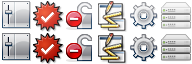
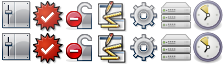
#101: Implement simple scheduler

diff --git a/chrome/content/dta/manager/manager.js b/chrome/content/dta/manager/manager.js
@@ -230,6 +230,8 @@ const Dialog = {
 			$('tooldonate').addEventListener('click', function(evt) { if (evt.button == 0) Dialog.openDonate() }, false);
 		})();
 
+		this.paneSchedule = $("schedule");
+
 		let tree = $("downloads");
 		Tree.init(tree);
 		tree.addEventListener("change", function() {
@@ -948,6 +950,31 @@ const Dialog = {
 			// pre-condition, do check prior to loop, or else we'll have the generator cost.
 			if (this._running.length >= Prefs.maxInProgress) {
 				return false;
+			}
+			if (Prefs.schedEnabled) {
+				this.paneSchedule.removeAttribute("disabled");
+
+				let current = new Date();
+				current = current.getHours() * 60 + current.getMinutes();
+				let disabled;
+				if (Prefs.schedStart < Prefs.schedEnd) {
+					disabled = current < Prefs.schedStart || current > Prefs.schedEnd;
+				}
+				else {
+					disabled = current < Prefs.schedStart && current > Prefs.schedEnd;
+				}
+
+				if (disabled) {
+					this.paneSchedule.removeAttribute("running");
+					this.paneSchedule.setAttribute("tooltiptext", _("schedule.paused"));
+					return false;
+				}
+
+				this.paneSchedule.setAttribute("running", "true");
+				this.paneSchedule.setAttribute("tooltiptext", _("schedule.running"));
+			}
+			else {
+				this.paneSchedule.setAttribute("disabled", "true");
 			}
 			if (!this.scheduler) {
 				this.scheduler = Limits.getConnectionScheduler(Tree.all, this._running);

diff --git a/chrome/content/preferences/prefs.js b/chrome/content/preferences/prefs.js
@@ -563,6 +563,24 @@ const Servers = {
 Components.utils.import('resource://dta/support/serverlimits.jsm', Servers);
 ServiceGetter(Servers, 'prompts', '@mozilla.org/embedcomp/prompt-service;1', 'nsIPromptService');
 
+const Schedule = {
+	init: function() {
+		this.setupSchedDeck();
+		$("schedenable").addEventListener("command", function() Schedule.setupSchedDeck(), false);
+	},
+	setupSchedDeck: function() {
+		$("scheddeck").selectedIndex = $("schedenable").checked ? 1 : 0;
+	},
+	syncFromPref: function(element) {
+		let pref = $(element.getAttribute("preference"));
+		let val = pref.value;
+		return Math.floor(val / 60) + ":" + (val % 60);
+	},
+	syncToPref: function(element) {
+		return element.hour * 60 + element.minute;
+	}
+};
+
 const Prefs = {
 	load: function() {
 		Components.utils.import('resource://dta/version.jsm');

diff --git a/chrome/skin/preferences/style.css b/chrome/skin/preferences/style.css
@@ -45,6 +45,14 @@ radio[pane="paneServers"][selected="true"] {
 	-moz-image-region: rect(32px, 192px,  64px, 160px);
 }
 
+radio[pane="paneSchedule"] {
+	-moz-image-region: rect(0px, 224px,  32px, 192px);
+}
+radio[pane="paneSchedule"]:hover,
+radio[pane="paneSchedule"][selected="true"] {
+	-moz-image-region: rect(32px, 224px,  64px, 192px);
+}
+
 radio[pane="paneAdvanced"] {
 	list-style-image: url(preferences-toolkit.png);
 	-moz-image-region: rect(0px, 224px,  32px, 192px);
@@ -92,4 +100,9 @@ richlistitem.serverlimit[editing="true"] {
 .serverlimit-value-label {
 	margin-right: 2em;
 	font-style: italic;
+}
+
+/* rebind to work around bug 637234 */
+timepicker {
+	-moz-binding: url(chrome://dta/content/preferences/bindings.xml#timepicker);
 }

diff --git a/chrome/skin/manager/style.css b/chrome/skin/manager/style.css
@@ -579,11 +579,25 @@ textbox.plain {
 .statusbarpanel-iconic-text {
 	padding-left: 4pt;
 }
-statusbarpanel#netstatus {
+.statusbarpanel-iconic {
 	padding-left: 6px;
 	padding-right: 6px;
 	min-width: 16px;
 }
+
+/* schedule */
+statusbarpanel#schedule {
+	list-style-image: url(chrome://dta/skin/manager/schedule.png);
+	-moz-image-region: rect(0px, 16px, 16px, 0px);
+}
+statusbarpanel#schedule[disabled] {
+	display: none;
+}
+statusbarpanel#schedule:not([running]) {
+	-moz-image-region: rect(0px, 32px, 16px, 16px);
+}
+
+
 
 /* search */
 #search {

diff --git a/defaults/preferences/dta.js b/defaults/preferences/dta.js
@@ -90,6 +90,14 @@ pref("extensions.dta.exposeInUA", false);
 pref("extensions.dta.tb.buttons", "1,1,0");
 
 /**
+ * Schedule
+ */
+pref("extensions.dta.schedule.enabled", false);
+pref("extensions.dta.schedule.start", 0);
+pref("extensions.dta.schedule.end", 1380); // 23:00
+pref("extensions.dta.schedule.open", true);
+
+/**
  * Privacy Controls
  */
 pref("privacy.cpd.extensions-dta", false);

diff --git a/chrome/content/dta/manager/utils.js b/chrome/content/dta/manager/utils.js
@@ -141,7 +141,10 @@ const Prefs = {
 		['minimizeToTray', false],
 		['recoverAllHttpErrors', false],
 		['speedLimit', -1],
-		['resumeOnError', false]
+		['resumeOnError', false],
+		['schedEnabled', 'schedule.enabled', false],
+		['schedStart', 'schedule.start', 0],
+		['schedEnd', 'schedule.end', 1380]
 	],
 
 	// nsIObserver
